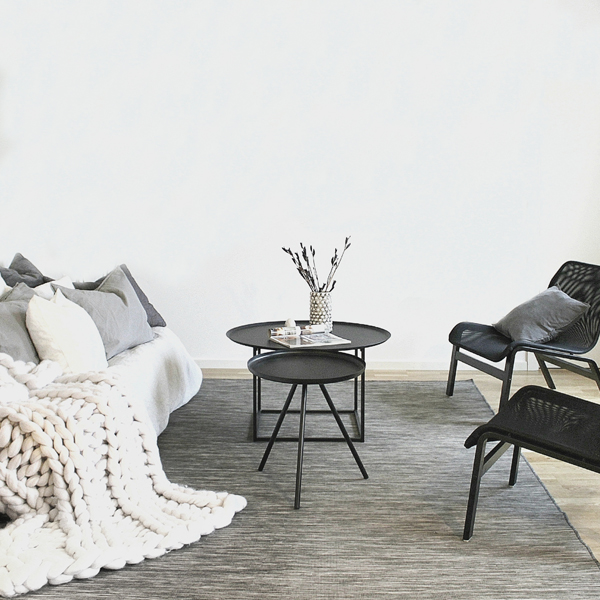
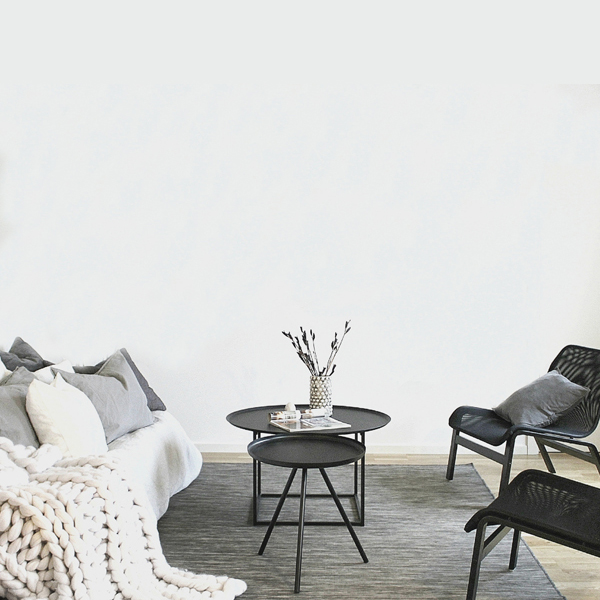
작품 상세 페이지 인테리어 걸어보기 완성

diff --git a/src/routes/ArtworkPage.js b/src/routes/ArtworkPage.js
@@ -113,17 +113,21 @@ function ArtworkPage() {
                         </div>
                     </div>
                 </div>
-                <div className="container">
-                    <h2 className="head">인태리어 해보기</h2>
-                    <div className="side preView"
+            </div>
+                <h2 className="subjectItr">인테리어 해보기</h2>
+                <div className="containerItr">
+                    <div className="sidePreView"
                         style={{
-                            height: "100vh",
-                            width: "50vw",
-                            backgroundImage: `url(${preImg})`
+                            backgroundImage: `url(${preImg})`,
+                            backgroundPosition: "center center"
                         }}>
                         <img
                             style={{
-                                height: "30vh",
+                                position:"absolute",
+                                left:"27%",
+                                marginTop:"38px",
+                                height: "28vh",
+                                boxShadow: "1px 1px 5px 1px rgba(0, 0, 0, 0.25)"
                             }}
                             src={artworks.artworkImgUrl} />
                     </div>
@@ -134,6 +138,7 @@ function ArtworkPage() {
                                     className='button_interior'
                                     src='../img/interior01Living.jpg' />
                             </button>
+                            <div className="buttonInfo">거실</div>
                         </div>
                         <div className="" >
                             <button onClick={() => imgChange('../img/interior02Shop.jpg')}>
@@ -141,6 +146,8 @@ function ArtworkPage() {
                                     className='button_interior'
                                     src='../img/interior02Shop.jpg' />
                             </button>
+                            <div className="buttonInfo">샵</div>
+
                         </div>
                         <div className="" >
                             <button onClick={() => imgChange('../img/interior03Room.jpg')}>
@@ -148,6 +155,8 @@ function ArtworkPage() {
                                     className='button_interior'
                                     src='../img/interior03Room.jpg' />
                             </button>
+                            <div className="buttonInfo">방</div>
+
                         </div>
                         <div className="" >
                             <button onClick={() => imgChange('../img/interior04Desk.jpg')}>
@@ -155,6 +164,7 @@ function ArtworkPage() {
                                     className='button_interior'
                                     src='../img/interior04Desk.jpg' />
                             </button>
+                            <div className="buttonInfo">서재</div>
                         </div>
                         <div className="" >
                             <button onClick={() => imgChange('../img/interior05Bed.jpg')}>
@@ -162,6 +172,7 @@ function ArtworkPage() {
                                     className='button_interior'
                                     src='../img/interior05Bed.jpg' />
                             </button>
+                            <div className="buttonInfo">침실1</div>
                         </div>
                         <div className="" >
                             <button onClick={() => imgChange('../img/interior06Bed2.jpg')}>
@@ -169,6 +180,7 @@ function ArtworkPage() {
                                     className='button_interior'
                                     src='../img/interior06Bed2.jpg' />
                             </button>
+                            <div className="buttonInfo">침실2</div>
                         </div>
                         <div className="" >
                             <button onClick={() => imgChange('../img/interior07Dining.jpg')}>
@@ -176,6 +188,7 @@ function ArtworkPage() {
                                     className='button_interior'
                                     src='../img/interior07Dining.jpg' />
                             </button>
+                            <div className="buttonInfo">식당</div>
                         </div>
                         <div className="" >
                             <button onClick={() => imgChange('../img/interior08Office.jpg')}>
@@ -183,6 +196,7 @@ function ArtworkPage() {
                                     className='button_interior'
                                     src='../img/interior08Office.jpg' />
                             </button>
+                            <div className="buttonInfo">사무실</div>
                         </div>
                         <div className="" >
                             <button onClick={() => imgChange('../img/interior09Black.jpg')}>
@@ -190,11 +204,12 @@ function ArtworkPage() {
                                     className='button_interior'
                                     src='../img/interior09Black.jpg' />
                             </button>
+                            <div className="buttonInfo">검정벽</div>
                         </div>
                     </div>
                 </div>
-            </div>
-            <div className="">{artworks.artworkInfo}</div>
+            
+            <div className="artworkInfo">{artworks.artworkInfo}</div>
         </div>
     );
 }

diff --git a/src/css-lib/ArtInfo.css b/src/css-lib/ArtInfo.css
@@ -221,3 +221,51 @@
     border:0;
     outline: 0;
 }
+
+.subjectItr {
+    display: block;
+    font-weight: 700;
+    font-size: 30px;
+    line-height: 43px;
+    color: #000000;
+    margin-top: 123px;
+}
+
+.containerItr {
+    margin-top: 43px;
+    display: flex;
+}
+.sidePreView {
+    width: 50%;
+}
+.button_wrap {
+    display: grid;
+    grid-template-columns: 136px 136px 136px;
+    grid-template-rows: 176px 176px 176px;
+    float: right;
+    width: 50%;
+    column-gap: 5%;
+    row-gap: 3%;
+    justify-content: end;
+
+}
+
+.button_wrap img{
+    width: 136px;
+}
+
+.buttonInfo{
+    margin-top: 6px;
+    margin-left: 6px;
+    text-align: center;
+}
+
+.artworkInfo {
+    margin-top: 100px;
+    font-family: 'Noto Sans KR';
+    font-style: normal;
+    font-weight: 400;
+    font-size: 14px;
+    line-height: 20px;
+    color: #000000;
+}

diff --git a/src/css-lib/ArtistInfo.css b/src/css-lib/ArtistInfo.css
@@ -20,8 +20,3 @@
     background-repeat:no-repeat;
 }
 
-.button_wrap img{
-    width:50px;
-
-}
-
